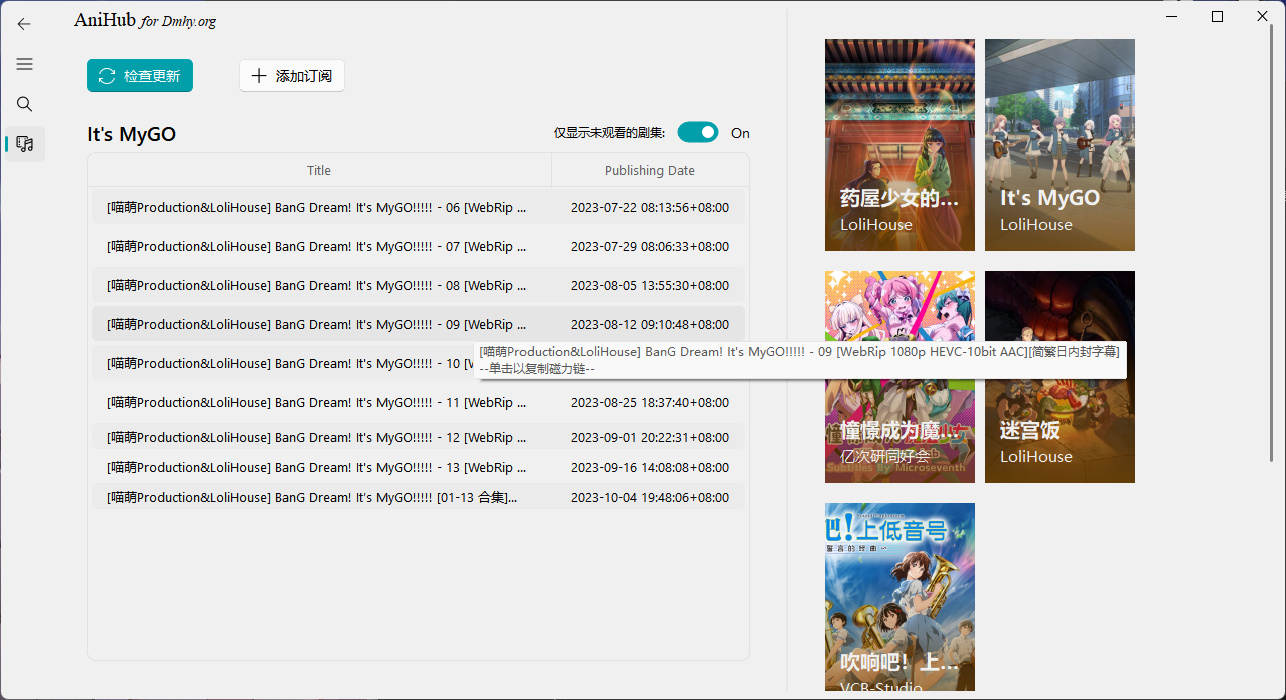
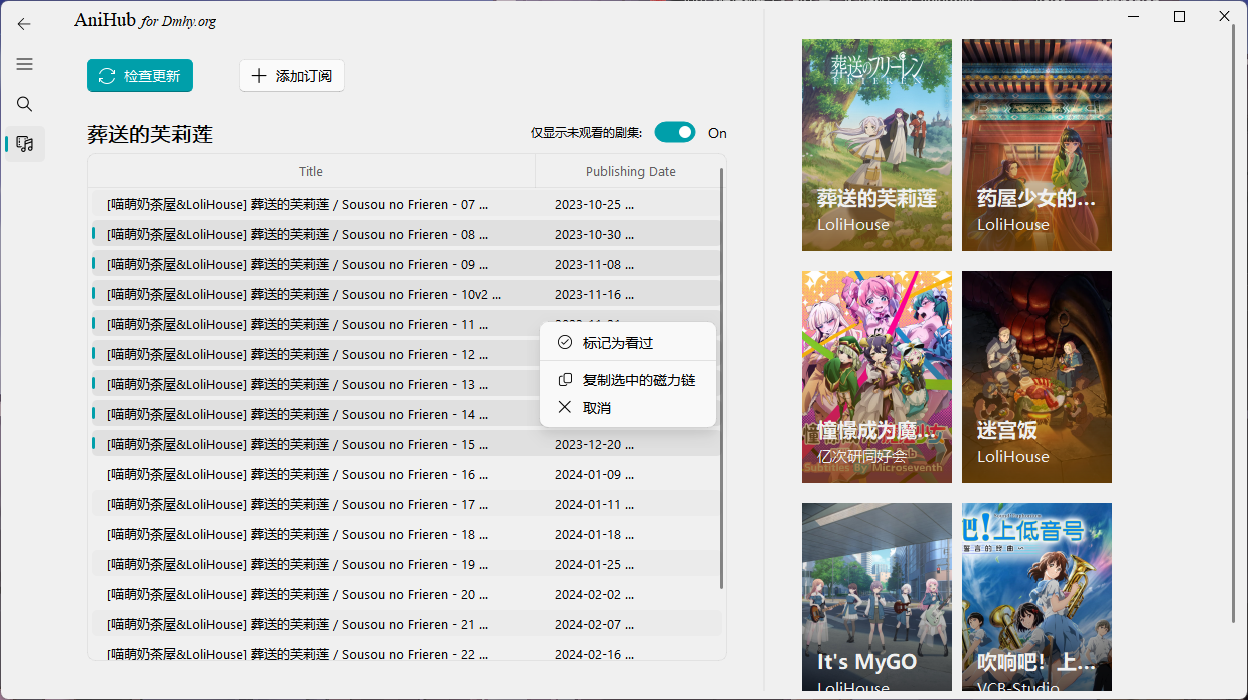
Update Readme

diff --git a/readme.md b/readme.md
@@ -8,7 +8,8 @@
 1. **更新订阅**：使你的动漫列表保持最新状态。
 2. **添加订阅**：轻松添加新动漫到你的观看列表。
 3. **搜索动漫**：找到下一个最爱。
-4. **管理已更新剧集**：跟踪记录观看进度。
+4. **复制磁力链**：方便地批量复制磁力链，搭配PikPak使用体验更佳。
+5. **管理已更新剧集**：跟踪记录观看进度。
 
 ### 安装
 
